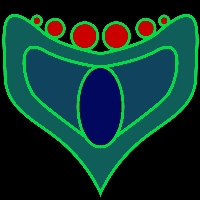
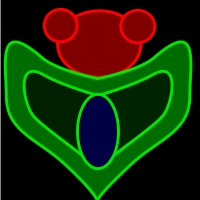
updated the enemy2

diff --git a/globalvars.py b/globalvars.py
@@ -146,6 +146,7 @@ playership.append(load_file(DATADIR+'pship3.bmp'))
 
 #loads enemy ship image
 enemyship=(load_file(DATADIR+ENEMYDIR+'eship.bmp'))
+enemyship2=(load_file(DATADIR+ENEMYDIR+'enemy2.jpeg'))
 
 #loads laser, laser1 and all other images associated with pshoot
 shot = load_file(DATADIR+'laser.bmp')
